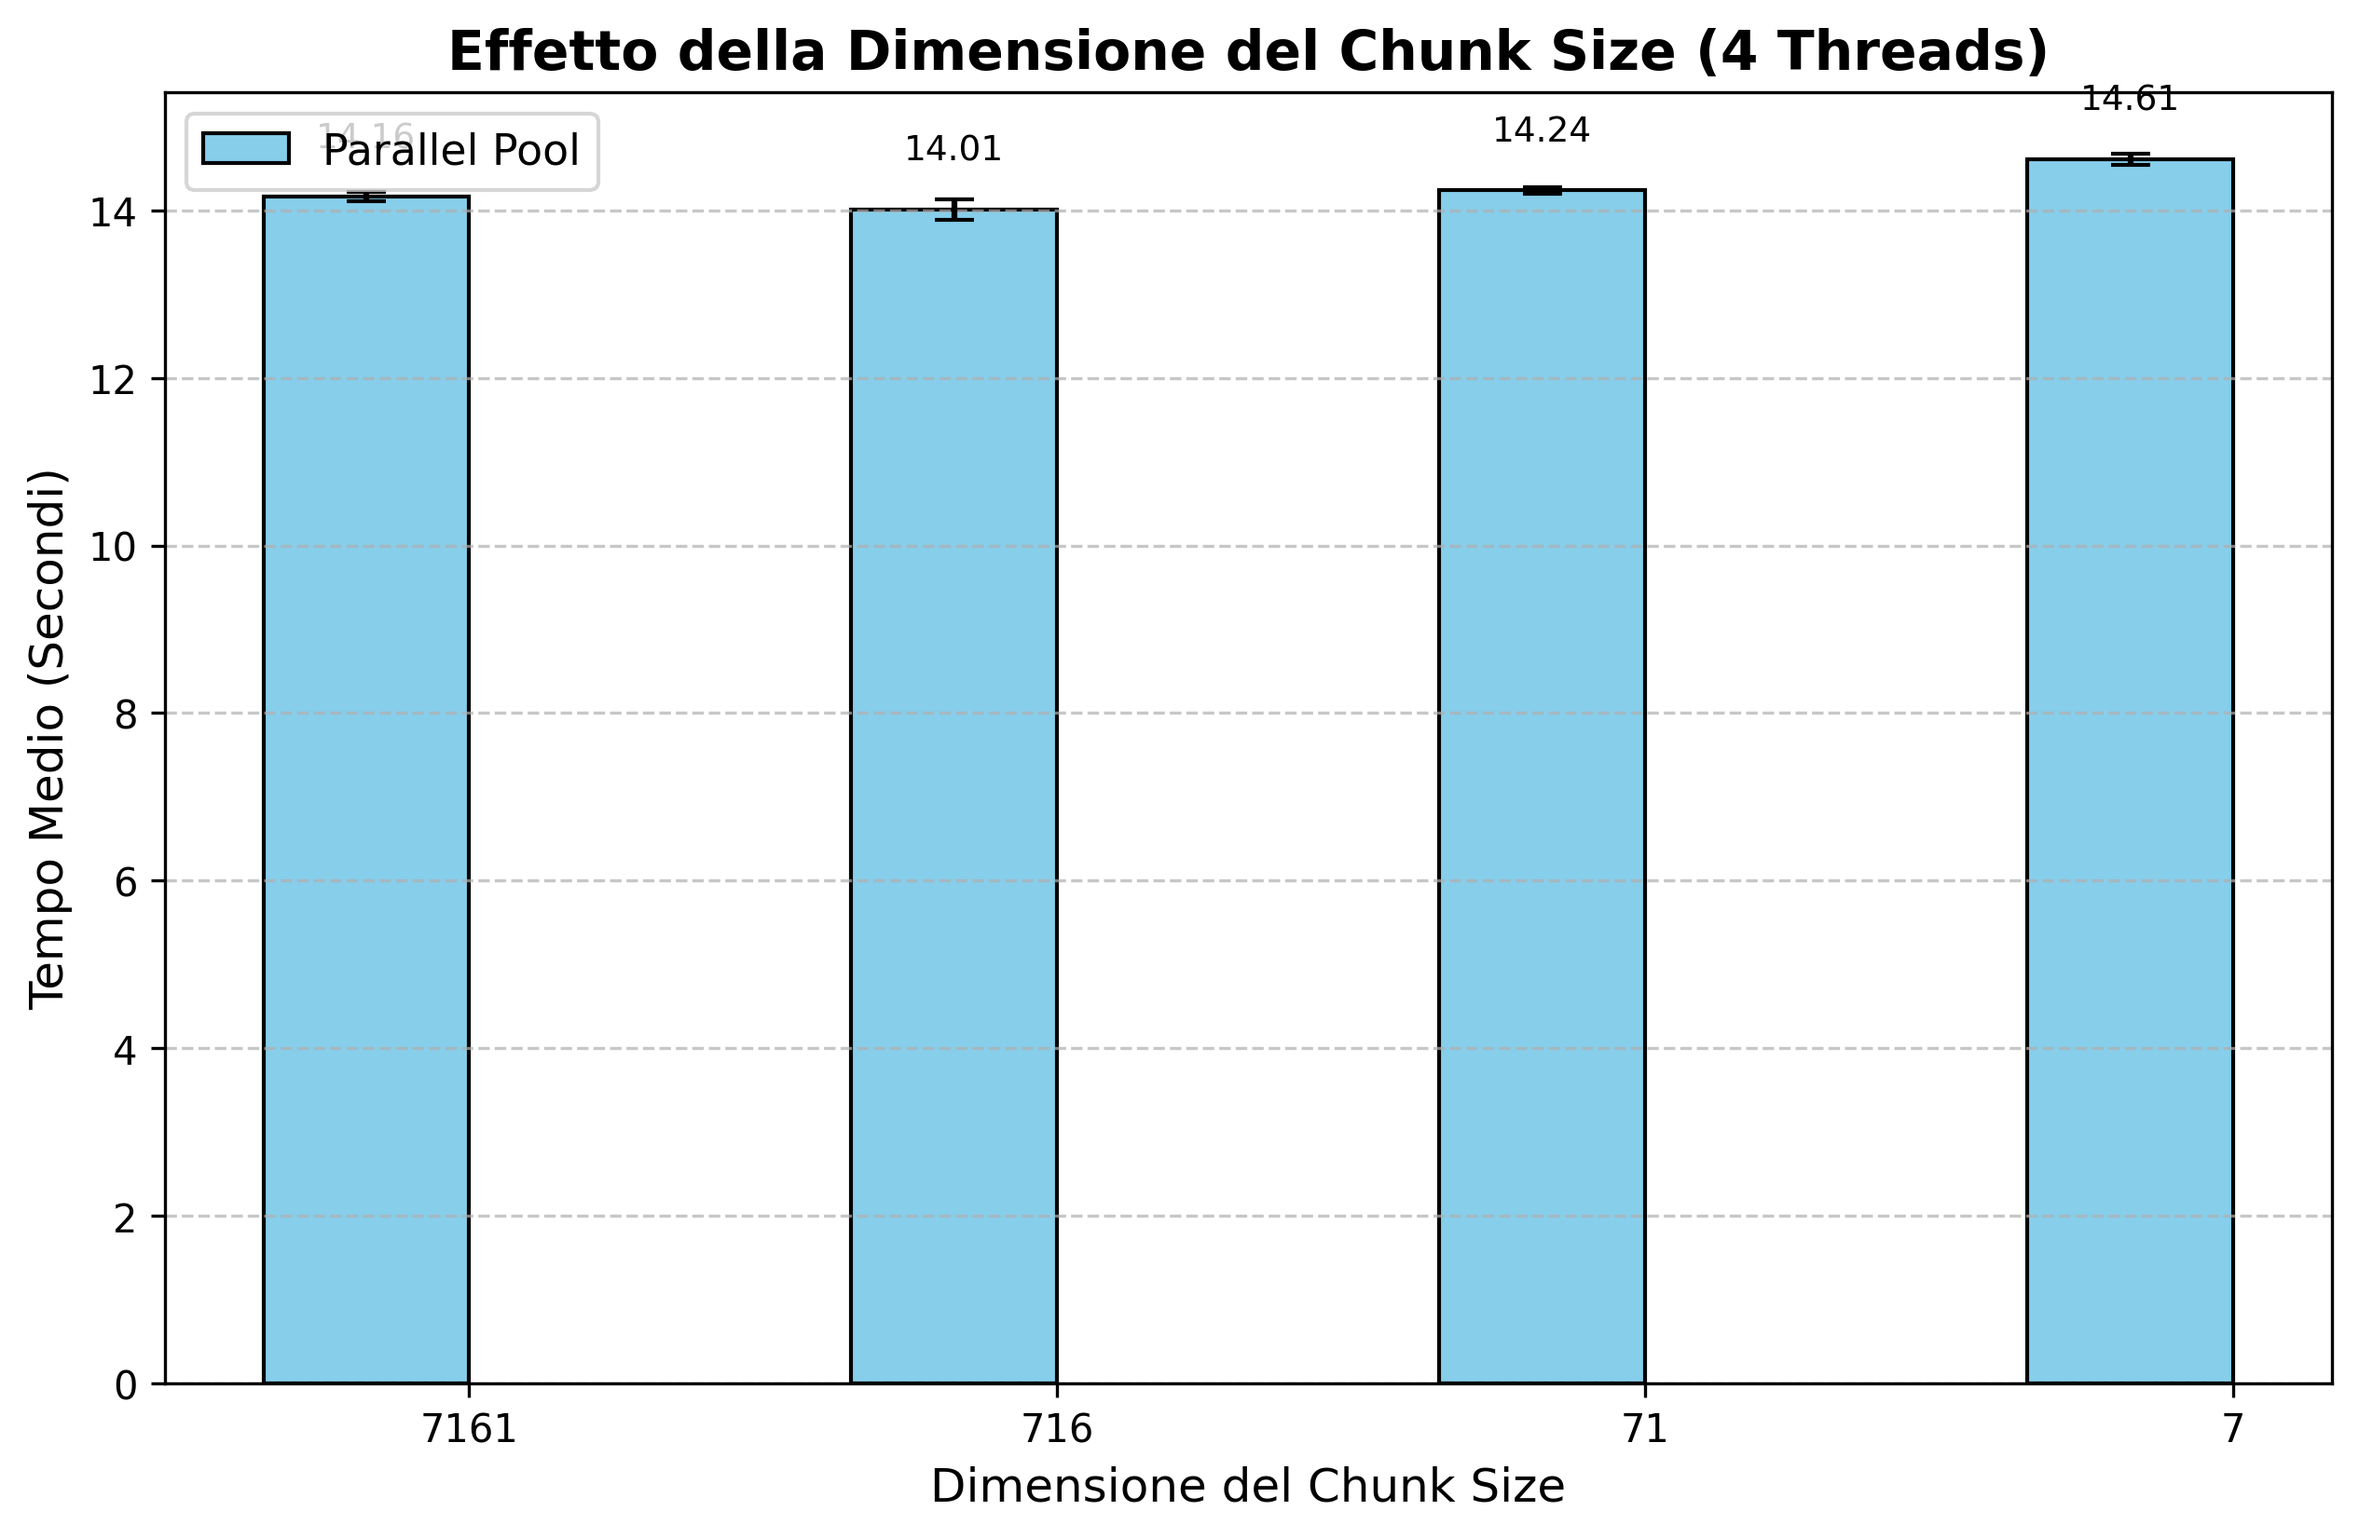
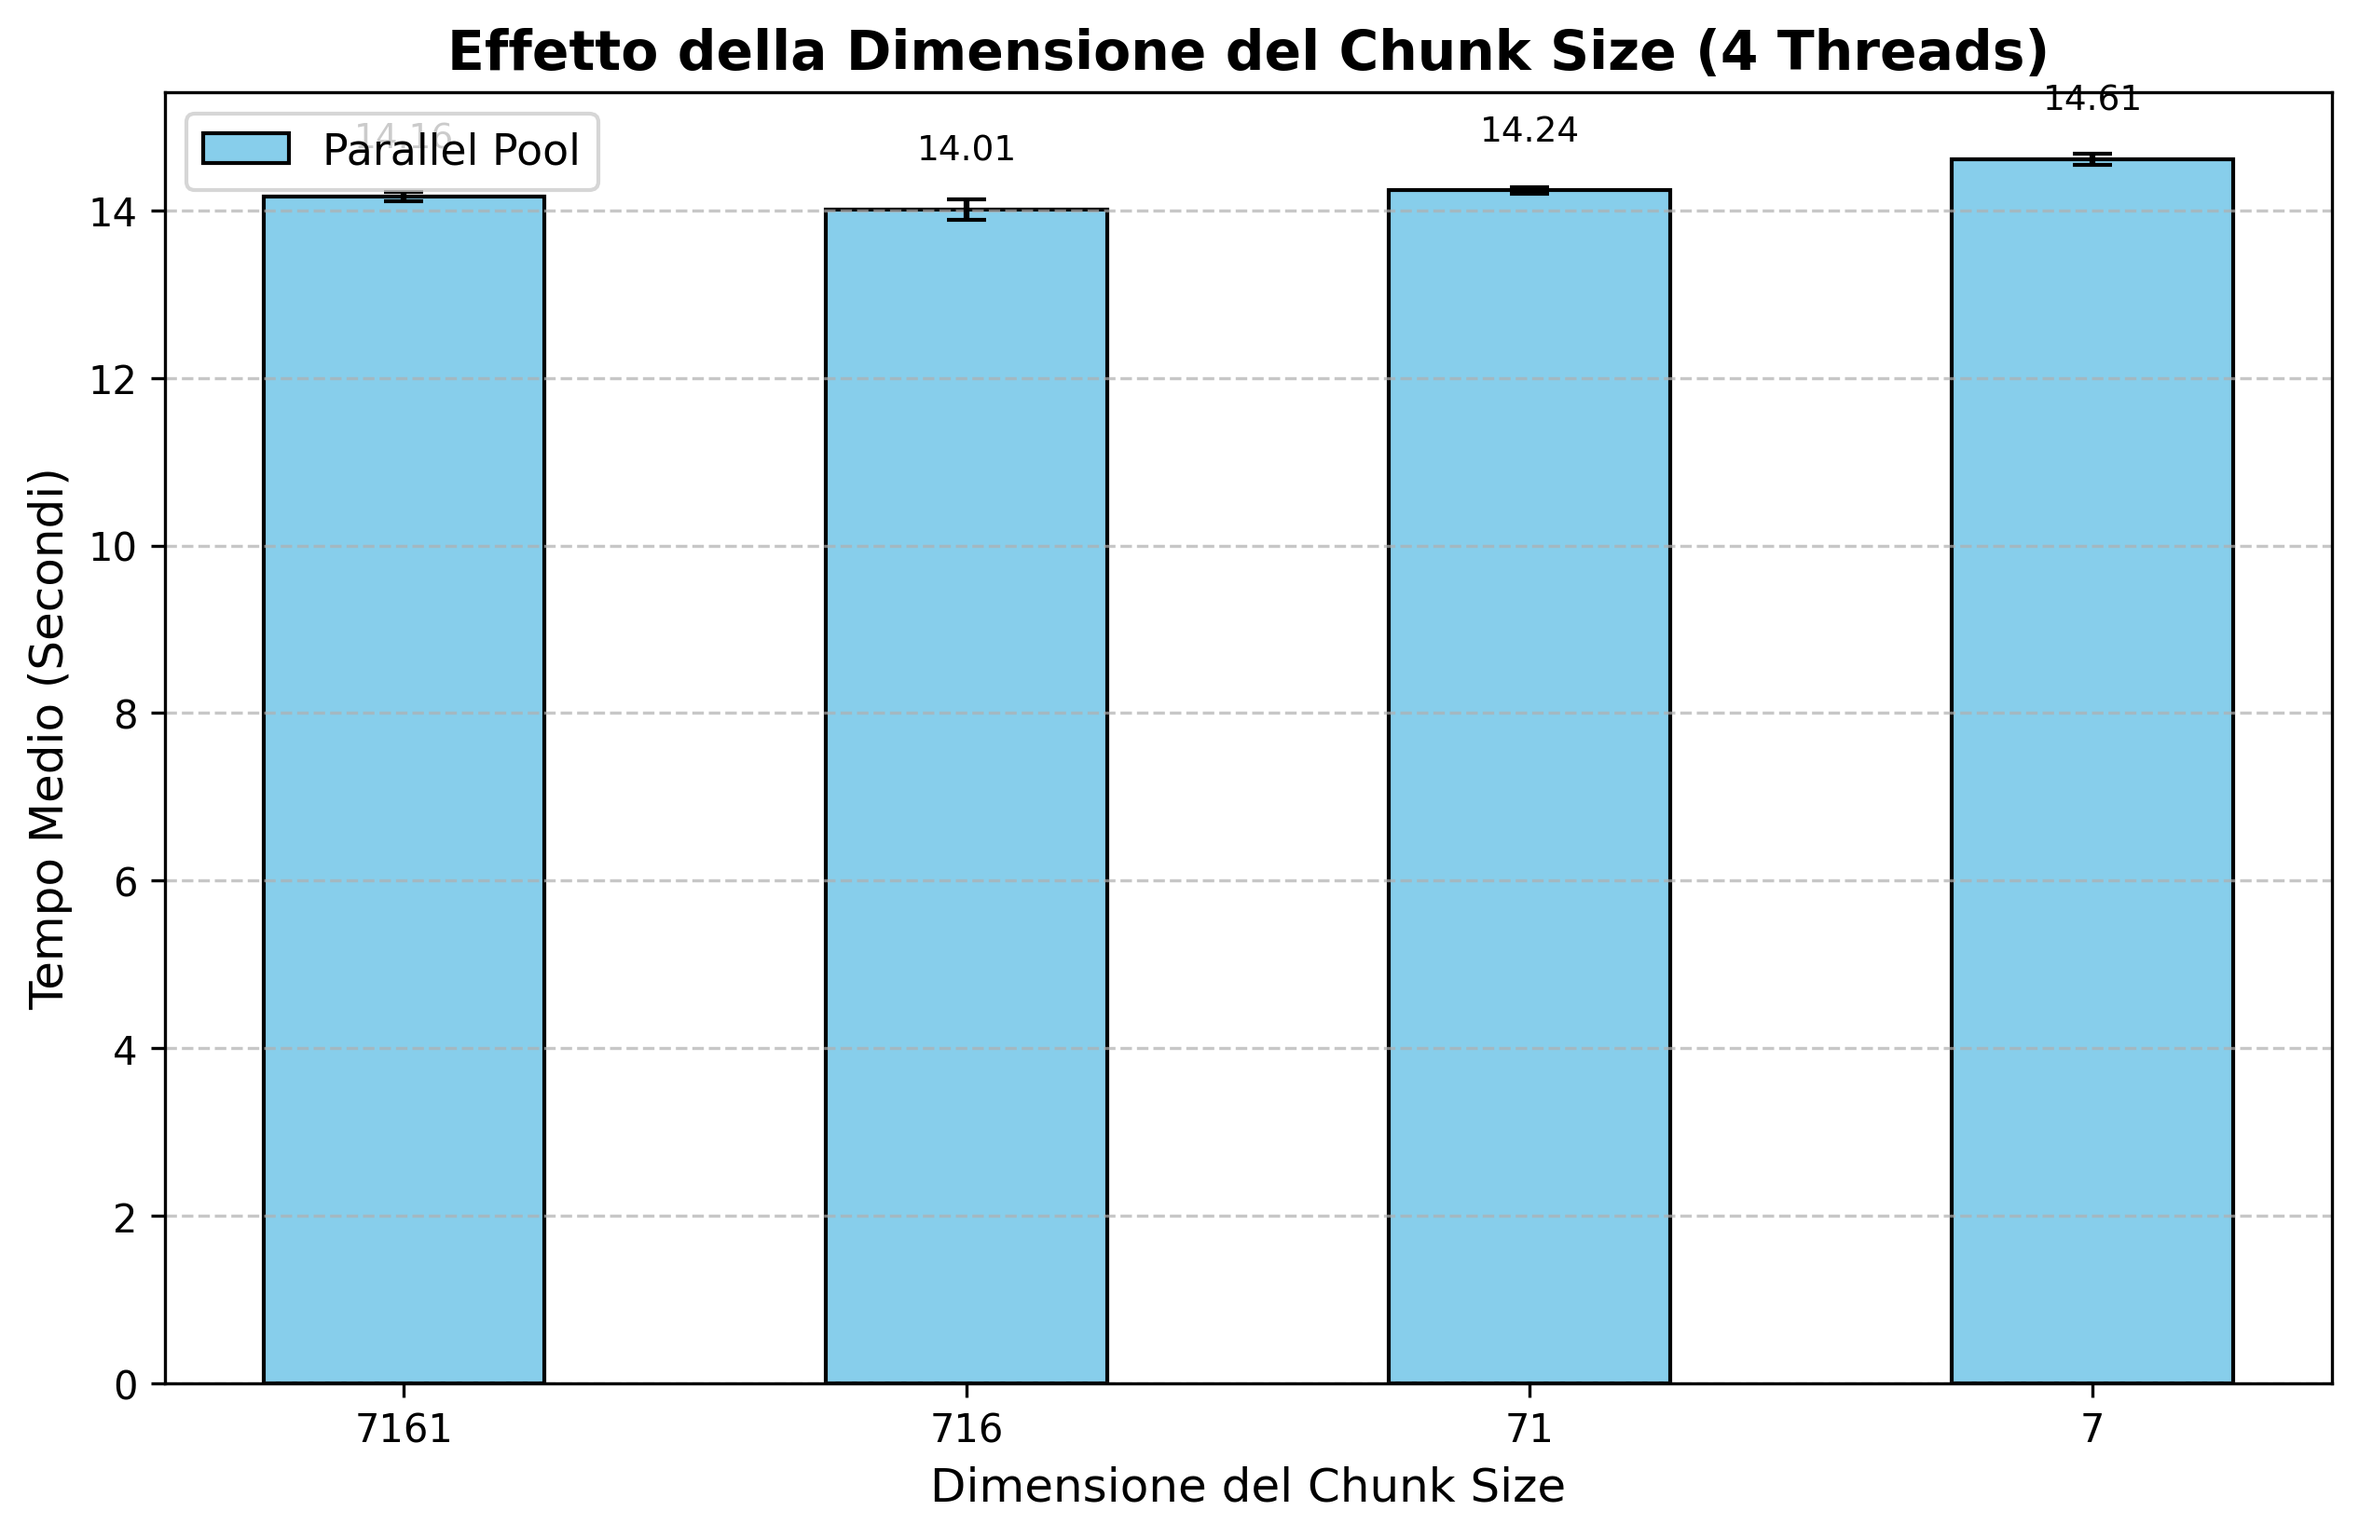
update

diff --git a/utils/plots.py b/utils/plots.py
@@ -16,11 +16,10 @@ std_seq = float(seq_row['Deviazione Standard'])
 
 df_pool = df_strong[df_strong['Implementazione'] == 'Parallel Pool'].copy()
 
-for df in [df_pool]:
-    df['Threads'] = pd.to_numeric(df['Threads'])
-    df['Tempo Medio'] = pd.to_numeric(df['Tempo Medio'])
-    df['Deviazione Standard'] = pd.to_numeric(df['Deviazione Standard'])
-    df.sort_values(by='Threads', inplace=True)
+df_pool['Threads'] = pd.to_numeric(df_pool['Threads'])
+df_pool['Tempo Medio'] = pd.to_numeric(df_pool['Tempo Medio'])
+df_pool['Deviazione Standard'] = pd.to_numeric(df_pool['Deviazione Standard'])
+df_pool.sort_values(by='Threads', inplace=True)
 
 df_pool['Speedup'] = t_seq / df_pool['Tempo Medio']
 
@@ -71,10 +70,10 @@ df_chunk['Deviazione Standard'] = pd.to_numeric(df_chunk['Deviazione Standard'])
 
 chunk_sizes = sorted(df_chunk['Chunk Size'].unique(), reverse=True)
 x = np.arange(len(chunk_sizes))
-width = 0.35
+width = 0.5
 
-pool_means, pool_stds = [], []
-threads_means, threads_stds = [], []
+pool_means = []
+pool_stds = []
 
 for val in chunk_sizes:
     p_row = df_chunk[(df_chunk['Implementazione'] == 'Parallel Pool') & (df_chunk['Chunk Size'] == val)]
@@ -83,7 +82,7 @@ for val in chunk_sizes:
     pool_stds.append(p_row['Deviazione Standard'].values[0])
 
 fig, ax = plt.subplots(figsize=(10, 6))
-bars1 = ax.bar(x - width / 2, pool_means, width, yerr=pool_stds, label='Parallel Pool', color='skyblue',
+bars = ax.bar(x, pool_means, width, yerr=pool_stds, label='Parallel Pool', color='skyblue',
                edgecolor='black', capsize=5)
 
 ax.set_title('Effetto della Dimensione del Chunk Size (4 Threads)', fontsize=14, fontweight='bold')
@@ -95,13 +94,13 @@ ax.grid(axis='y', linestyle='--', alpha=0.7)
 ax.legend(fontsize=11)
 
 
-def autolabel(bars):
-    for bar in bars:
+def autolabel(bars_obj):
+    for bar in bars_obj:
         yval = bar.get_height()
         ax.text(bar.get_x() + bar.get_width() / 2, yval + 0.5, round(yval, 2), ha='center', va='bottom', fontsize=9)
 
 
-autolabel(bars1)
+autolabel(bars)
 
 plt.savefig(os.path.join(output_dir, '3_chunk_size_effect.png'), dpi=300, bbox_inches='tight')
 plt.close(fig)

diff --git a/src/password_decryption.py b/src/password_decryption.py
@@ -1,7 +1,7 @@
 import threading
 from passlib.hash import des_crypt
 import random
-from concurrent.futures import ThreadPoolExecutor, wait, FIRST_COMPLETED, as_completed
+from concurrent.futures import ThreadPoolExecutor, wait, FIRST_COMPLETED
 import itertools
 import config
 
@@ -49,7 +49,7 @@ def decrypt_password_par_pool(target_hashes, num_workers, chunk_size):
     with ThreadPoolExecutor(max_workers=num_workers) as executor:
         futures = set()
 
-        # Si riempiono il pool con i primi task
+        # Si riempiono i pool con i primi task
         for _ in range(num_workers):
             chunk = list(itertools.islice(iterator, chunk_size))
             if not chunk:
@@ -57,10 +57,10 @@ def decrypt_password_par_pool(target_hashes, num_workers, chunk_size):
             futures.add(executor.submit(check_chunk, chunk, target_hashes, stop_event))
 
         while futures and not stop_event.is_set():
-            # Si aspetta che almeno task finisca
+            # Si aspetta che almeno un task finisca
             done, not_done = wait(futures, return_when=FIRST_COMPLETED)
 
-            # Si analizza i task completati
+            # Si analizzano i task completati
             for future in done:
                 result = future.result()
                 if result:

diff --git a/src/main.py b/src/main.py
@@ -181,7 +181,7 @@ def run_benchmarks():
 
 def run_demo():
     print_info_GIL()
-    passwords = ["01011990", "f5082005", "31122026"]
+    passwords = ["01011990", "05082005", "31122026"]
     targets = build_targets(passwords)
     threads = 4
     chunk_size = c.N // (threads * 1000)
